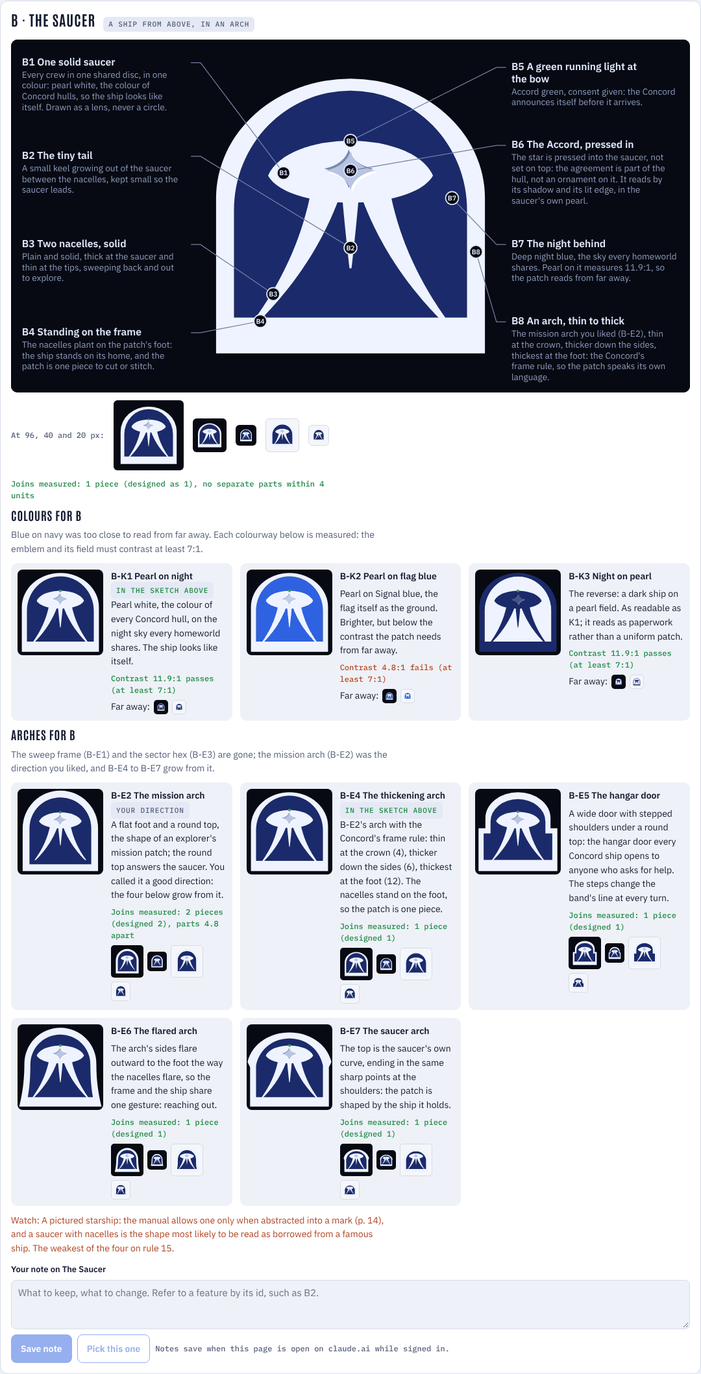
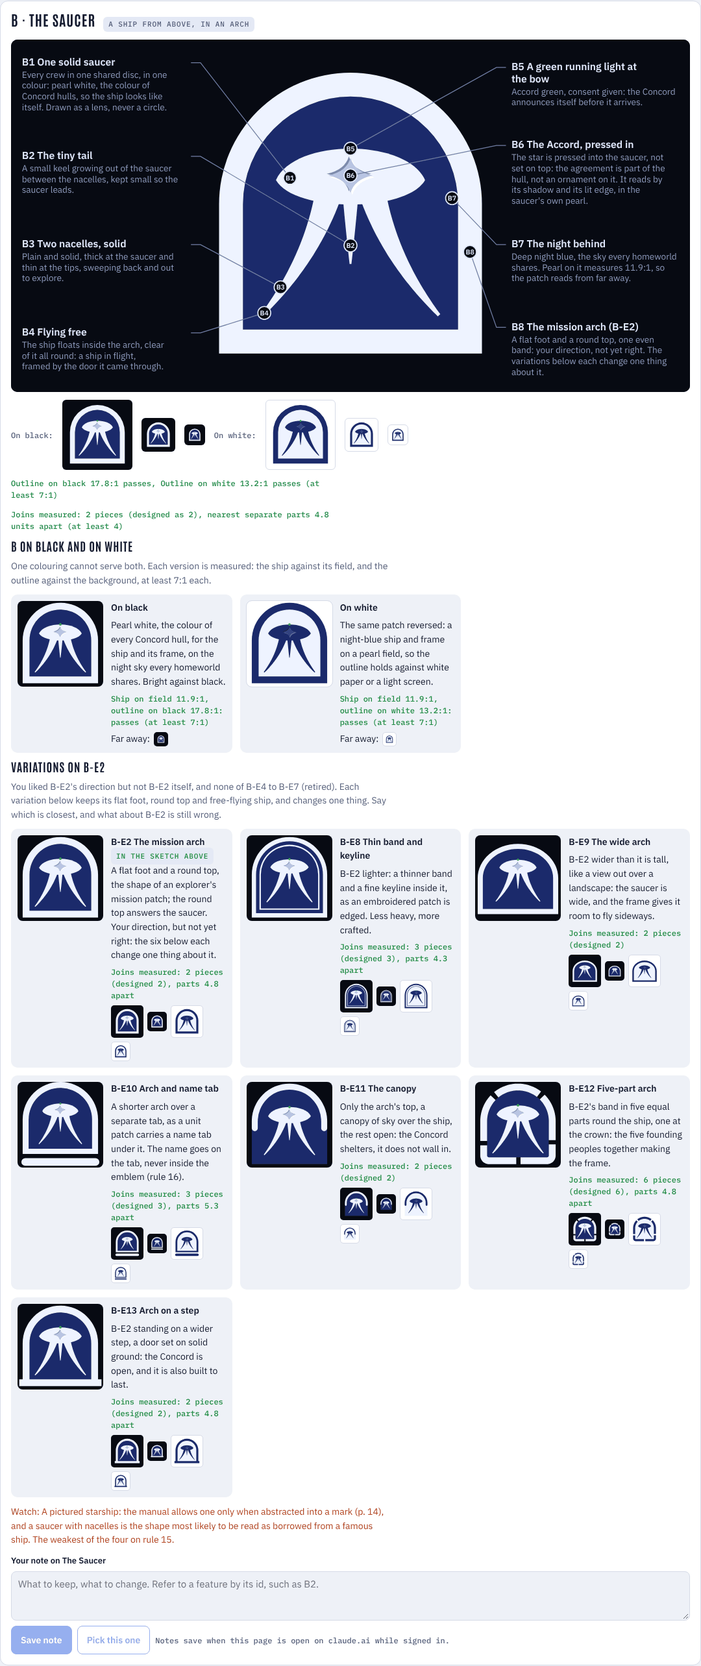
Emblem guide v7: versions for black and white backgrounds, measured; six variations on B-E2
Claude-Session: https://claude.ai/code/session_01RGPQurdNhehmMFB559epqW

Changed region(s): [[0.0, 0.0, 1.0, 1.0], [0.6722, 0.4051, 0.9778, 0.7479]]

diff --git a/docs/design/emblem-guide.html b/docs/design/emblem-guide.html
@@ -56,7 +56,7 @@ ol.steps .st { font: 500 11px var(--mono); letter-spacing: 0.08em; text-transfor
 .figure svg { display: block; width: 100%; min-width: 760px; height: auto; }
 .small { display: flex; flex-wrap: wrap; gap: 14px; align-items: center; font: 500 12px var(--mono); color: var(--muted); }
 .small span { display: inline-grid; place-items: center; border-radius: 6px; }
-.small .dk { background: #070a12; } .small .lt { background: #f4f6fa; border: 1px solid #d6dbe7; }
+.small .dk { background: #070a12; } .small .lt { background: #ffffff; border: 1px solid #d6dbe7; }
 .risk { font-size: 14px; color: var(--warn); }
 .encl { display: grid; gap: 10px; }
 .encl h4 { margin: 0; font: 700 18px/1.1 var(--display); letter-spacing: 0.05em; text-transform: uppercase; }
@@ -67,7 +67,7 @@ ol.steps .st { font: 500 11px var(--mono); letter-spacing: 0.08em; text-transfor
 .encl figcaption b { font-weight: 600; }
 .encl .mini { display: flex; gap: 6px; align-items: center; flex-wrap: wrap; }
 .encl .mini span { display: inline-grid; place-items: center; border-radius: 5px; }
-.encl .mini .dk { background: #070a12; } .encl .mini .lt { background: #f4f6fa; border: 1px solid #d6dbe7; }
+.encl .mini .dk { background: #070a12; } .encl .mini .lt { background: #ffffff; border: 1px solid #d6dbe7; }
 .joins { font: 500 12px/1.5 var(--mono); color: var(--ok); }
 .joins.bad { color: var(--warn); }
 .notebox { display: grid; gap: 8px; }
@@ -207,6 +207,8 @@ ol.steps .st { font: 500 11px var(--mono); letter-spacing: 0.08em; text-transfor
 'use strict';
 // ---- your notes (newest first): kept in the page, added by Claude as you give them -----------------------------------
 const NOTES = [
+  { when: '2026-11-03', q: 'the colors are bad, they dont read on the white background; need different versions for white and black background', means: 'Every emblem now has a version for black and one for white, each measured (rule 18): B pearl on night for black, night on pearl for white; A, C and D pearl on black and night blue on white.' },
+  { when: '2026-11-03', q: 'dont like any of those shapes, though b-e2 is a good direction (but I still DONT LIKE IT)', means: 'B-E4 to B-E7 retired; B-E2 back in the sketch as the direction, not the answer; six variations on it (B-E8 to B-E13), each changing one thing, to find what is wrong with it.' },
   { when: '2026-11-03', q: 'those colors are no good either, hard to read from far away', means: 'Colours are now measured: the emblem and its field contrast at least 7:1 (rule 18). B is pearl white on night blue (11.9:1); two other colourways shown with their numbers and a 12 px view.' },
   { when: '2026-11-03', q: 'dont like any of those shapes, though b-e2 is a good direction', means: 'The sweep frame (B-E1) and the hex (B-E3) dropped; four arches grown from B-E2 (B-E4 to B-E7), every one measured for joins.' },
   { when: '2026-11-03', q: 'the saucer is nice, but i dont like the way its colored. B2 has these thin lines inside of the legs. To make it an emblem that would go on a patch or something, I\'d like to seesome sort of shape encompassing that. B1\'s darker color can be removed so that it is a solid color, and the star in the middle can be impressed', means: 'B: the saucer one solid blue, no lines in the legs, the star pressed in; three patch shapes round it (B-E1 to B-E3), the sweep frame in the sketch.' },
@@ -252,7 +254,7 @@ const RULES = [
   ['No pictured starships', 'A ship appears only abstracted into a mark, never as a recognisable craft.', 'manual p. 14'],
   ['Keep clear of protected marks', 'No arrowhead-delta, no starfield in a ring of laurels, nothing from the reference game. Near one, change the contour, the proportions, the colour and the inner symbol.', 'manual p. 15-16; CLAUDE.md section 1'],
   ['One body, no slivers', 'Every part grows out of the part it joins; parts meant to stand apart stand at least 4 grid units clear. Measured on every sketch.', 'your notes'],
-  ['Readable from far away', 'The emblem and its field contrast at least 7:1, measured, and every emblem is checked at 12 px.', 'your notes'],
+  ['Readable from far away, on black and on white', 'Every emblem has a version for black backgrounds and one for white. In each, the emblem and its field contrast at least 7:1, and the outline and the background at least 7:1, measured; checked at 12 px.', 'your notes'],
   ['No lettering inside', 'The faction\'s name is set beside the emblem in its skin\'s display face, never inside it.', 'manual p. 4; the icon standard'],
 ];
 const rulesEl = document.getElementById('rules');
@@ -300,19 +302,30 @@ const path = (d, fill, extra = '') => `<path d="${d}" fill="${fill}" ${extra}/>`
 // The saucer on the 100 grid, before any frame (owner, 2026-11-03: the saucer one solid colour, no lines inside the legs,
 // the star pressed in, and "some sort of shape encompassing that" so it works as a patch). ink: the shapes only, for
 // measuring joins (no star detail, no running light).
-// The colourways (owner, 2026-11-03: "those colors are no good either, hard to read from far away"): the emblem and its
-// field must differ by at least MIN_CONTRAST (the WCAG contrast ratio, measured below), so the patch reads from across
-// a room or a battle. floor, shadow and lit are the pressed star's floor, upper-left wall and lower-right rim.
+// Two versions of every emblem, one for each background (owner, 2026-11-03: "those colors are no good either, hard to
+// read from far away", "the colors are bad, they dont read on the white background", "need different versions for white
+// and black background"). Each is measured (the WCAG contrast ratio): the emblem against its field, and the outline
+// against the background it sits on, at least MIN_CONTRAST each (rule 18). floor, shadow and lit are B's pressed star.
 const MIN_CONTRAST = 7;
-const COLOURWAYS = [
-  { key: 'B-K1', name: 'Pearl on night', rec: true, ink: '#eef3ff', field: '#1b2a6b', floor: '#b8c4e2', shadow: '#7a8ab4', lit: '#ffffff',
-    why: 'Pearl white, the colour of every Concord hull, on the night sky every homeworld shares. The ship looks like itself.' },
-  { key: 'B-K2', name: 'Pearl on flag blue', ink: '#eef3ff', field: '#2f62e0', floor: '#c3d0f0', shadow: '#8fa3d6', lit: '#ffffff',
-    why: 'Pearl on Signal blue, the flag itself as the ground. Brighter, but below the contrast the patch needs from far away.' },
-  { key: 'B-K3', name: 'Night on pearl', ink: '#1b2a6b', field: '#eef3ff', floor: '#34479a', shadow: '#0e1840', lit: '#6077c6',
-    why: 'The reverse: a dark ship on a pearl field. As readable as K1; it reads as paperwork rather than a uniform patch.' },
-];
-const KREC = COLOURWAYS.find((k) => k.rec);
+const BG = { dk: '#070a12', lt: '#ffffff' };
+const VERSIONS = {
+  dk: { key: 'On black', ink: '#eef3ff', field: '#1b2a6b', frame: '#eef3ff', floor: '#b8c4e2', shadow: '#7a8ab4', lit: '#ffffff',
+    why: 'Pearl white, the colour of every Concord hull, for the ship and its frame, on the night sky every homeworld shares. Bright against black.' },
+  lt: { key: 'On white', ink: '#1b2a6b', field: '#eef3ff', frame: '#1b2a6b', floor: '#34479a', shadow: '#0e1840', lit: '#6077c6',
+    why: 'The same patch reversed: a night-blue ship and frame on a pearl field, so the outline holds against white paper or a light screen.' },
+};
+// The sketches A, C and D are recoloured for each background the same way: their blue strokes become pearl on black
+// and night blue on white, their light accents a blue that still reads.
+const RECOLOUR = {
+  dk: { [C.signal]: '#eef3ff', [C.sky]: '#3fa9f0' },
+  lt: { [C.signal]: '#1b2a6b', [C.sky]: '#2f62e0', [C.lilac]: '#5b47b8', [C.white]: '#eef3ff' },
+};
+function recolour(svg, bg) { let out = svg; for (const [a, b] of Object.entries(RECOLOUR[bg])) out = out.split(`"${a}"`).join(`"${b}"`); return out; }
+// A design's art for a background: B draws its own versions, the others are recoloured.
+function art(d, bg) { return d.own ? d.draw(bg) : recolour(d.draw(), bg); }
+// The colour that carries a design's outline on a background, for the contrast check.
+function outlineColour(d, bg) { return d.own ? VERSIONS[bg].frame : RECOLOUR[bg][C.signal]; }
+const KREC = VERSIONS.dk;
 function lum(hex) { const c = [1, 3, 5].map((i) => parseInt(hex.slice(i, i + 2), 16) / 255).map((v) => (v <= 0.04045 ? v / 12.92 : ((v + 0.055) / 1.055) ** 2.4)); return 0.2126 * c[0] + 0.7152 * c[1] + 0.0722 * c[2]; }
 function contrast(a, b) { const [x, y] = [lum(a), lum(b)].sort((m, n) => n - m); return (x + 0.05) / (y + 0.05); }
 function saucer(ink, k = KREC) {
@@ -329,44 +342,76 @@ function saucer(ink, k = KREC) {
   return s;
 }
 // Each patch: its frame (even-odd), the field inside it, and the scale the saucer takes inside it (about 50, 52).
+// The five-segment arch's band: E2's band centreline (x 10 to 90, foot at y 92, corners rounded 6) cut into five equal
+// pieces with 4.5 unit gaps, one piece centred on the crown.
+function segmentedArch() {
+  const pts = [];
+  const line = (a, b) => { const n = Math.ceil(Math.hypot(b[0] - a[0], b[1] - a[1]) / 0.5); for (let i = 0; i < n; i++) pts.push([a[0] + (b[0] - a[0]) * i / n, a[1] + (b[1] - a[1]) * i / n]); };
+  const arc = (cx, cy, r, a0, a1) => { const n = Math.ceil(Math.abs(a1 - a0) * r / 0.5); for (let i = 0; i < n; i++) { const a = a0 + (a1 - a0) * i / n; pts.push([cx + r * Math.cos(a), cy + r * Math.sin(a)]); } };
+  const D = Math.PI / 180;
+  line([50, 92], [16, 92]); arc(16, 86, 6, 90 * D, 180 * D); line([10, 86], [10, 46]); arc(50, 46, 40, 180 * D, 360 * D); line([90, 46], [90, 86]); arc(84, 86, 6, 0, 90 * D); line([84, 92], [50, 92]);
+  const cum = [0]; for (let i = 1; i < pts.length; i++) cum.push(cum[i - 1] + Math.hypot(pts[i][0] - pts[i - 1][0], pts[i][1] - pts[i - 1][1]));
+  const total = cum[cum.length - 1] + Math.hypot(pts[0][0] - pts[pts.length - 1][0], pts[0][1] - pts[pts.length - 1][1]);
+  const crown = cum[pts.findIndex((p) => p[1] <= 6.01 && Math.abs(p[0] - 50) < 1)];
+  const gap = 4.5, seg = (total - 5 * gap) / 5;
+  let d = '';
+  for (let k = 0; k < 5; k++) {
+    const a = crown - seg / 2 + k * (seg + gap), b = a + seg;
+    const run = []; for (let i = 0; i < pts.length; i++) { let c = cum[i]; for (const o of [0, total, -total]) { const cc = c + o; if (cc >= a && cc <= b) { run.push([cc, pts[i]]); break; } } }
+    run.sort((m, n) => m[0] - n[0]);
+    d += ribbonPts(run.map((r) => r[1]), () => 4);
+  }
+  return d;
+}
+// B's frames. B-E1 and B-E3 were dropped (owner: "dont like any of those shapes, though b-e2 is a good direction"), then
+// B-E4 to B-E7 ("dont like any of those shapes, though b-e2 is a good direction (but I still DONT LIKE IT)"). The six
+// below each keep B-E2's flat foot, round top and free-flying ship, and change one thing. cy: the height the ship is
+// centred on; scale: its size.
 const ENCLOSURES = [
-  { key: 'B-E2', name: 'The mission arch', liked: true, scale: 0.78, pieces: 2,
+  { key: 'B-E2', name: 'The mission arch', liked: true, rec: true, scale: 0.78, cy: 52, pieces: 2,
     frame: 'M6 96V46A44 44 0 0 1 94 46V96ZM14 88V46A36 36 0 0 1 86 46V88Z',
     field: 'M14 88V46A36 36 0 0 1 86 46V88Z',
-    why: 'A flat foot and a round top, the shape of an explorer\'s mission patch; the round top answers the saucer. You called it a good direction: the four below grow from it.' },
-  { key: 'B-E4', name: 'The thickening arch', rec: true, scale: 0.8625, pieces: 1,
-    frame: 'M5 96V44A45 40 0 0 1 95 44V96ZM11 84V48A39 40 0 0 1 89 48V84Z',
-    field: 'M11 84V48A39 40 0 0 1 89 48V84Z',
-    why: 'B-E2\'s arch with the Concord\'s frame rule: thin at the crown (4), thicker down the sides (6), thickest at the foot (12). The nacelles stand on the foot, so the patch is one piece.' },
-  { key: 'B-E5', name: 'The hangar door', scale: 0.8, pieces: 1,
-    frame: 'M4 96V46H12V34A38 30 0 0 1 88 34V46H96V96ZM10 83V52H18V38A32 26 0 0 1 82 38V52H90V83Z',
-    field: 'M10 83V52H18V38A32 26 0 0 1 82 38V52H90V83Z',
-    why: 'A wide door with stepped shoulders under a round top: the hangar door every Concord ship opens to anyone who asks for help. The steps change the band\'s line at every turn.' },
-  { key: 'B-E6', name: 'The flared arch', scale: 0.8625, pieces: 1,
-    frame: 'M2 96C6 80 8 64 8 46A42 42 0 0 1 92 46C92 64 94 80 98 96ZM12 85C14 74 15 62 15 47A35 35 0 0 1 85 47C85 62 86 74 88 85Z',
-    field: 'M12 85C14 74 15 62 15 47A35 35 0 0 1 85 47C85 62 86 74 88 85Z',
-    why: 'The arch\'s sides flare outward to the foot the way the nacelles flare, so the frame and the ship share one gesture: reaching out.' },
-  { key: 'B-E7', name: 'The saucer arch', scale: 0.8625, pieces: 1,
-    frame: 'M4 96V50L1 44C13 -2 87 -2 99 44L96 50V96ZM11 85V48C20 6 80 6 89 48V85Z',
-    field: 'M11 85V48C20 6 80 6 89 48V85Z',
-    why: 'The top is the saucer\'s own curve, ending in the same sharp points at the shoulders: the patch is shaped by the ship it holds.' },
+    why: 'A flat foot and a round top, the shape of an explorer\'s mission patch; the round top answers the saucer. Your direction, but not yet right: the six below each change one thing about it.' },
+  { key: 'B-E8', name: 'Thin band and keyline', scale: 0.7, cy: 50, pieces: 3,
+    frame: 'M6 96V46A44 44 0 0 1 94 46V96ZM11 91V46A39 39 0 0 1 89 46V91ZM15 87V46A35 35 0 0 1 85 46V87ZM16.6 85.4V46A33.4 33.4 0 0 1 83.4 46V85.4Z',
+    field: 'M11 91V46A39 39 0 0 1 89 46V91Z',
+    why: 'B-E2 lighter: a thinner band and a fine keyline inside it, as an embroidered patch is edged. Less heavy, more crafted.' },
+  { key: 'B-E9', name: 'The wide arch', scale: 0.68, cy: 50, pieces: 2,
+    frame: 'M3 92V50A47 40 0 0 1 97 50V92ZM9 86V50A41 34 0 0 1 91 50V86Z',
+    field: 'M9 86V50A41 34 0 0 1 91 50V86Z',
+    why: 'B-E2 wider than it is tall, like a view out over a landscape: the saucer is wide, and the frame gives it room to fly sideways.' },
+  { key: 'B-E10', name: 'Arch and name tab', scale: 0.66, cy: 46, pieces: 3,
+    frame: 'M6 84V44A44 44 0 0 1 94 44V84ZM13 78V44A37 37 0 0 1 87 44V78ZM9 89H91A4.5 4.5 0 0 1 91 98H9A4.5 4.5 0 0 1 9 89Z',
+    field: 'M13 78V44A37 37 0 0 1 87 44V78Z',
+    why: 'A shorter arch over a separate tab, as a unit patch carries a name tab under it. The name goes on the tab, never inside the emblem (rule 16).' },
+  { key: 'B-E11', name: 'The canopy', scale: 0.78, cy: 54, pieces: 2,
+    frame: 'M6 54V46A44 44 0 0 1 94 46V54A3.5 3.5 0 0 1 87 54V46A37 37 0 0 0 13 46V54A3.5 3.5 0 0 1 6 54Z',
+    field: 'M6 96V46A44 44 0 0 1 94 46V96Z',
+    why: 'Only the arch\'s top, a canopy of sky over the ship, the rest open: the Concord shelters, it does not wall in.' },
+  { key: 'B-E12', name: 'Five-part arch', scale: 0.78, cy: 52, pieces: 6, frame: segmentedArch(),
+    field: 'M14 88V46A36 36 0 0 1 86 46V88Z',
+    why: 'B-E2\'s band in five equal parts round the ship, one at the crown: the five founding peoples together making the frame.' },
+  { key: 'B-E13', name: 'Arch on a step', scale: 0.78, cy: 52, pieces: 2,
+    frame: 'M6 88V46A44 44 0 0 1 94 46V88H98V96H2V88ZM14 88V46A36 36 0 0 1 86 46V88Z',
+    field: 'M14 88V46A36 36 0 0 1 86 46V88Z',
+    why: 'B-E2 standing on a wider step, a door set on solid ground: the Concord is open, and it is also built to last.' },
 ];
 const REC = ENCLOSURES.findIndex((e) => e.rec);
 function enclosed(e, ink, k = KREC) {
-  const g = `<g transform="translate(50 52) scale(${e.scale}) translate(-50 -52)">${saucer(ink, k)}</g>`;
-  return (ink ? '' : path(e.field, k.field)) + `<path d="${e.frame}" fill="${k.ink}" fill-rule="evenodd"/>` + g;
+  const g = `<g transform="translate(50 ${e.cy}) scale(${e.scale}) translate(-50 -52)">${saucer(ink, k)}</g>`;
+  return (ink ? '' : path(e.field, k.field)) + `<path d="${e.frame}" fill="${k.frame}" fill-rule="evenodd"/>` + g;
 }
-// The colourways side by side on the arch in the sketch, each at 96 px and at 12 px (far away), with its measured contrast.
+// B's two versions, each on its own background at 132 and 12 px (far away), with both contrasts measured.
 function colourRow() {
   const e = ENCLOSURES[REC];
-  return `<div class="encl"><h4>Colours for B</h4><p class="muted" style="font-size:14px">Blue on navy was too close to read from far away. Each colourway below is measured: the emblem and its field must contrast at least ${MIN_CONTRAST}:1.</p><div class="encl-row">${COLOURWAYS.map((k) => { const c = contrast(k.ink, k.field); return `<figure>
-    <svg viewBox="0 0 100 100" width="132" height="132" aria-hidden="true">${enclosed(e, false, k)}</svg>
-    <figcaption><b>${k.key} ${k.name}</b>${k.rec ? '<span><span class="chip rec">In the sketch above</span></span>' : ''}<span>${k.why}</span>
-    <span class="joins${c >= MIN_CONTRAST ? '' : ' bad'}">Contrast ${c.toFixed(1)}:1 ${c >= MIN_CONTRAST ? 'passes' : 'fails'} (at least ${MIN_CONTRAST}:1)</span>
-    <span class="mini">Far away: ${['dk', 'lt'].map((bg) => `<span class="${bg}" style="width:22px;height:22px"><svg width="12" height="12" viewBox="0 0 100 100">${enclosed(e, false, k)}</svg></span>`).join('')}</span></figcaption></figure>`; }).join('')}</div></div>`;
+  return `<div class="encl"><h4>B on black and on white</h4><p class="muted" style="font-size:14px">One colouring cannot serve both. Each version is measured: the ship against its field, and the outline against the background, at least ${MIN_CONTRAST}:1 each.</p><div class="encl-row">${Object.entries(VERSIONS).map(([bg, k]) => { const c1 = contrast(k.ink, k.field), c2 = contrast(k.frame, BG[bg]); const ok = c1 >= MIN_CONTRAST && c2 >= MIN_CONTRAST; return `<figure>
+    <svg viewBox="0 0 100 100" width="132" height="132" aria-hidden="true" style="background:${BG[bg]};${bg === 'lt' ? 'outline:1px solid #d6dbe7;' : ''}">${enclosed(e, false, k)}</svg>
+    <figcaption><b>${k.key}</b><span>${k.why}</span>
+    <span class="joins${ok ? '' : ' bad'}">Ship on field ${c1.toFixed(1)}:1, outline on ${bg === 'dk' ? 'black' : 'white'} ${c2.toFixed(1)}:1: ${ok ? 'passes' : 'fails'} (at least ${MIN_CONTRAST}:1)</span>
+    <span class="mini">Far away: <span class="${bg}" style="width:22px;height:22px"><svg width="12" height="12" viewBox="0 0 100 100">${enclosed(e, false, k)}</svg></span></span></figcaption></figure>`; }).join('')}</div></div>`;
 }
 // A point of the bare saucer moved to where it sits inside enclosure i.
-function encT(i, x, y) { const k = ENCLOSURES[i < 0 ? REC : i].scale; return [+(50 + (x - 50) * k).toFixed(2), +(52 + (y - 52) * k).toFixed(2)]; }
+function encT(i, x, y) { const e = ENCLOSURES[i < 0 ? REC : i], k = e.scale; return [+(50 + (x - 50) * k).toFixed(2), +(e.cy + (y - 52) * k).toFixed(2)]; }
 
 // ---- the Concord's four directions -----------------------------------------------------------------------------------
 // Each: id, name, outline (its silhouette class), recommended?, risk (anything it might be mistaken for), draw() returning
@@ -407,19 +452,20 @@ const DESIGNS = [
     ],
   },
   {
-    id: 'concord-b', name: 'B · The Saucer', outline: 'A ship from above, in an arch', pieces: 1,
+    id: 'concord-b', name: 'B · The Saucer', outline: 'A ship from above, in an arch', pieces: 2,
     risk: 'A pictured starship: the manual allows one only when abstracted into a mark (p. 14), and a saucer with nacelles is the shape most likely to be read as borrowed from a famous ship. The weakest of the four on rule 15.',
-    draw() { return enclosed(ENCLOSURES[REC], false); },
+    own: true,
+    draw(bg = 'dk') { return enclosed(ENCLOSURES[REC], false, VERSIONS[bg]); },
     ink() { return enclosed(ENCLOSURES[REC], true); },
     callouts: [
       [...encT(-1, 24, 33), 'L', 'One solid saucer', 'Every crew in one shared disc, in one colour: pearl white, the colour of Concord hulls, so the ship looks like itself. Drawn as a lens, never a circle.'],
       [...encT(-1, 20, 80), 'L', 'Two nacelles, solid', 'Plain and solid, thick at the saucer and thin at the tips, sweeping back and out to explore.'],
-      [...encT(-1, 15, 90.5), 'L', 'Standing on the frame', 'The nacelles plant on the patch\'s foot: the ship stands on its home, and the patch is one piece to cut or stitch.'],
+      [...encT(-1, 13, 91), 'L', 'Flying free', 'The ship floats inside the arch, clear of it all round: a ship in flight, framed by the door it came through.'],
       [...encT(-1, 50, 62), 'L', 'The tiny tail', 'A small keel growing out of the saucer between the nacelles, kept small so the saucer leads.'],
       [...encT(-1, 50, 20.5), 'R', 'A green running light at the bow', 'Accord green, consent given: the Concord announces itself before it arrives.'],
       [...encT(-1, 50, 32), 'R', 'The Accord, pressed in', 'The star is pressed into the saucer, not set on top: the agreement is part of the hull, not an ornament on it. It reads by its shadow and its lit edge, in the saucer\'s own pearl.'],
       [84, 44, 'R', 'The night behind', 'Deep night blue, the sky every homeworld shares. Pearl on it measures 11.9:1, so the patch reads from far away.'],
-      [92, 62, 'R', 'An arch, thin to thick', 'The mission arch you liked (B-E2), thin at the crown, thicker down the sides, thickest at the foot: the Concord\'s frame rule, so the patch speaks its own language.'],
+      [90, 62, 'R', 'The mission arch (B-E2)', 'A flat foot and a round top, one even band: your direction, not yet right. The variations below each change one thing about it.'],
     ],
   },
   {
@@ -473,10 +519,10 @@ const DESIGNS = [
 
 // The three patch shapes for B, side by side, each with its reason.
 function enclosureRow() {
-  return `<div class="encl"><h4>Arches for B</h4><p class="muted" style="font-size:14px">The sweep frame (B-E1) and the sector hex (B-E3) are gone; the mission arch (B-E2) was the direction you liked, and B-E4 to B-E7 grow from it.</p><div class="encl-row">${ENCLOSURES.map((e) => `<figure>
-    <svg viewBox="0 0 100 100" width="132" height="132" aria-hidden="true">${enclosed(e, false)}</svg>
-    <figcaption><b>${e.key} ${e.name}</b>${e.rec ? '<span><span class="chip rec">In the sketch above</span></span>' : ''}${e.liked ? '<span><span class="chip">Your direction</span></span>' : ''}<span>${e.why}</span>
-    <span class="joins" data-joins-enc="${e.key}">Measuring joins...</span><span class="mini">${['dk', 'lt'].map((bg) => [40, 20].map((px) => `<span class="${bg}" style="width:${px + 10}px;height:${px + 10}px"><svg width="${px}" height="${px}" viewBox="0 0 100 100">${enclosed(e, false)}</svg></span>`).join('')).join('')}</span></figcaption></figure>`).join('')}</div></div>`;
+  return `<div class="encl"><h4>Variations on B-E2</h4><p class="muted" style="font-size:14px">You liked B-E2\'s direction but not B-E2 itself, and none of B-E4 to B-E7 (retired). Each variation below keeps its flat foot, round top and free-flying ship, and changes one thing. Say which is closest, and what about B-E2 is still wrong.</p><div class="encl-row">${ENCLOSURES.map((e) => `<figure>
+    <svg viewBox="0 0 100 100" width="132" height="132" aria-hidden="true">${enclosed(e, false, VERSIONS.dk)}</svg>
+    <figcaption><b>${e.key} ${e.name}</b>${e.rec ? '<span><span class="chip rec">In the sketch above</span></span>' : ''}<span>${e.why}</span>
+    <span class="joins" data-joins-enc="${e.key}">Measuring joins...</span><span class="mini">${['dk', 'lt'].map((bg) => [40, 20].map((px) => `<span class="${bg}" style="width:${px + 10}px;height:${px + 10}px"><svg width="${px}" height="${px}" viewBox="0 0 100 100">${enclosed(e, false, VERSIONS[bg])}</svg></span>`).join('')).join('')}</span></figcaption></figure>`).join('')}</div></div>`;
 }
 // One image per design: the sketch in the middle (the 100 grid at 4 px a unit), callouts in two columns, each with a
 // leader line to the element it explains and a dot on it.
@@ -493,7 +539,7 @@ function figure(d) {
   const wrap = (t, chars) => { const out = []; let line = ''; for (const w of t.split(' ')) { if ((line + ' ' + w).trim().length > chars) { out.push(line); line = w; } else line = (line + ' ' + w).trim(); } if (line) out.push(line); return out; };
   let s = `<svg viewBox="0 0 ${W} ${H}" role="img" aria-label="${esc(d.name)}: the sketch with its design choices labelled" xmlns="http://www.w3.org/2000/svg" font-family="IBM Plex Sans, Segoe UI, sans-serif">`;
   s += `<rect width="${W}" height="${H}" fill="#070a12"/>`;
-  s += `<g transform="translate(${ox} ${oy}) scale(${S})">${d.draw()}</g>`;
+  s += `<g transform="translate(${ox} ${oy}) scale(${S})">${art(d, 'dk')}</g>`;
   const column = (items, x, anchorSide) => {
     const slot = H / Math.max(items.length, 1);
     items.forEach((c, i) => {
@@ -519,7 +565,7 @@ function figure(d) {
 }
 // The sketch alone at a pixel size, for the small-size row.
 function mark(d, px, bg) {
-  return `<span class="${bg}" style="width:${px + 12}px;height:${px + 12}px"><svg width="${px}" height="${px}" viewBox="0 0 100 100" aria-hidden="true">${d.draw()}</svg></span>`;
+  return `<span class="${bg}" style="width:${px + 12}px;height:${px + 12}px"><svg width="${px}" height="${px}" viewBox="0 0 100 100" aria-hidden="true">${art(d, bg)}</svg></span>`;
 }
 
 const host = document.getElementById('concord-designs');
@@ -528,7 +574,8 @@ for (const d of DESIGNS) {
   const el = document.createElement('article'); el.className = 'design'; el.id = d.id; el.dataset.id = d.id;
   el.innerHTML = `<header><h3>${d.name}</h3><span class="chip">${d.outline}</span>${d.rec ? '<span class="chip rec">Recommended</span>' : ''}<span class="chip picked" data-picked hidden>Your pick</span></header>
     <div class="figure">${figure(d)}</div>
-    <div class="small">At 96, 40 and 20 px: ${mark(d, 96, 'dk')}${mark(d, 40, 'dk')}${mark(d, 20, 'dk')}${mark(d, 40, 'lt')}${mark(d, 20, 'lt')}</div>
+    <div class="small">On black: ${mark(d, 96, 'dk')}${mark(d, 40, 'dk')}${mark(d, 20, 'dk')} On white: ${mark(d, 96, 'lt')}${mark(d, 40, 'lt')}${mark(d, 20, 'lt')}</div>
+    <p class="joins">${['dk', 'lt'].map((bg) => { const c = contrast(outlineColour(d, bg), BG[bg]); return `${bg === 'dk' ? 'Outline' : 'outline'} on ${bg === 'dk' ? 'black' : 'white'} ${c.toFixed(1)}:1 ${c >= MIN_CONTRAST ? 'passes' : 'FAILS'}`; }).join(', ')} (at least ${MIN_CONTRAST}:1)</p>
     <p class="joins" data-joins>Measuring joins...</p>
     ${d.id === 'concord-b' ? colourRow() + enclosureRow() : ''}
     ${d.risk ? `<p class="risk">Watch: ${d.risk}</p>` : ''}

diff --git a/docs/artifacts/emblem-guide/README.md b/docs/artifacts/emblem-guide/README.md
@@ -38,3 +38,9 @@
   arches grown from B-E2 (B-E4 the thickening arch, in the sketch; B-E5 the hangar door; B-E6 the flared arch; B-E7 the
   saucer arch), each one's joins measured; colourways measured for contrast (at least 7:1, rule 18): B-K1 pearl on
   night (11.9:1, in the sketch), B-K2 pearl on flag blue (4.8:1, fails), B-K3 night on pearl (11.9:1), each at 12 px.
+- Version 7 published 2026-11-03: B-E4 to B-E7 retired (owner: "dont like any of those shapes, though b-e2 is a good
+  direction (but I still DONT LIKE IT)"); B-E2 back in the sketch; six variations on it (B-E8 to B-E13), each changing
+  one thing. Every emblem now has a version for black and one for white (owner: "the colors are bad, they dont read on
+  the white background", "need different versions for white and black background"), each measured: B pearl on night on
+  black (ship on field 11.9:1, outline 17.8:1), night on pearl on white (11.9:1, 13.2:1); A, C and D pearl on black
+  (17.8:1) and night blue on white (13.2:1).
